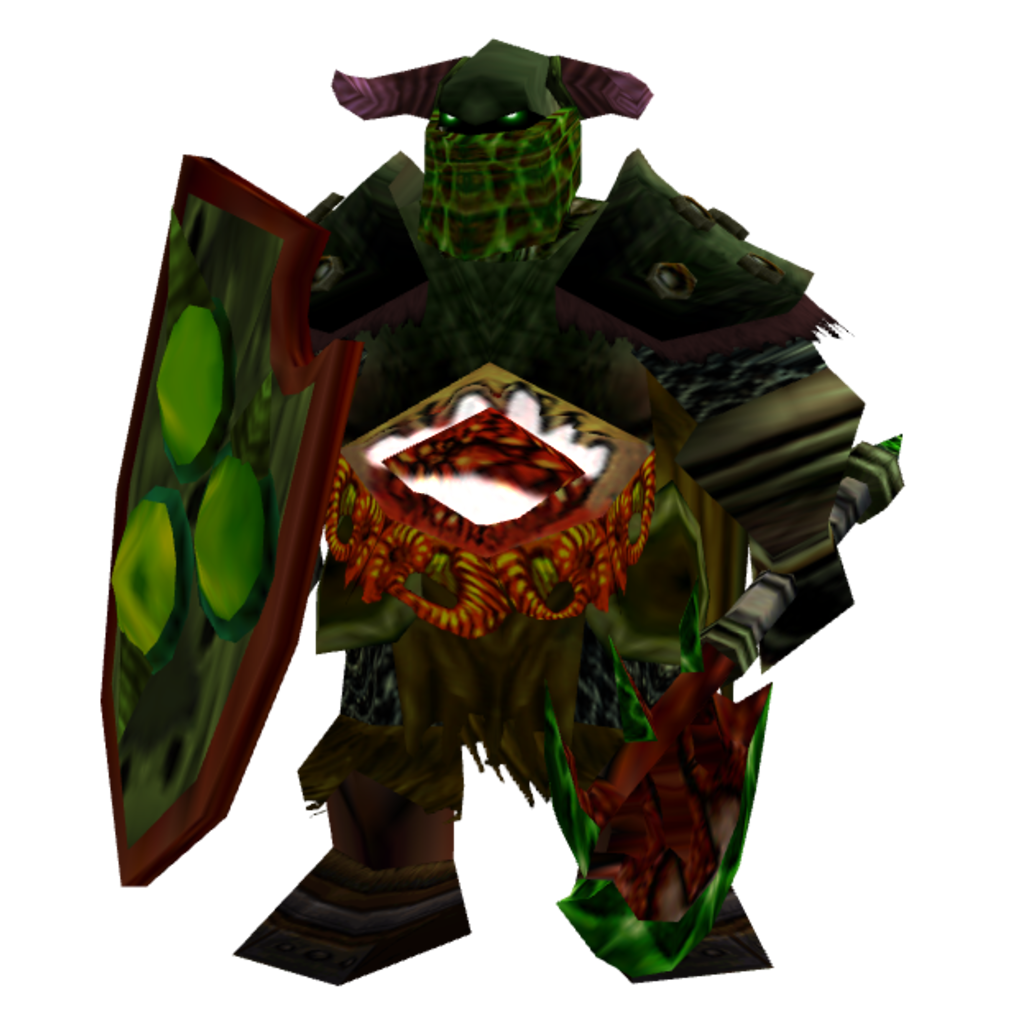
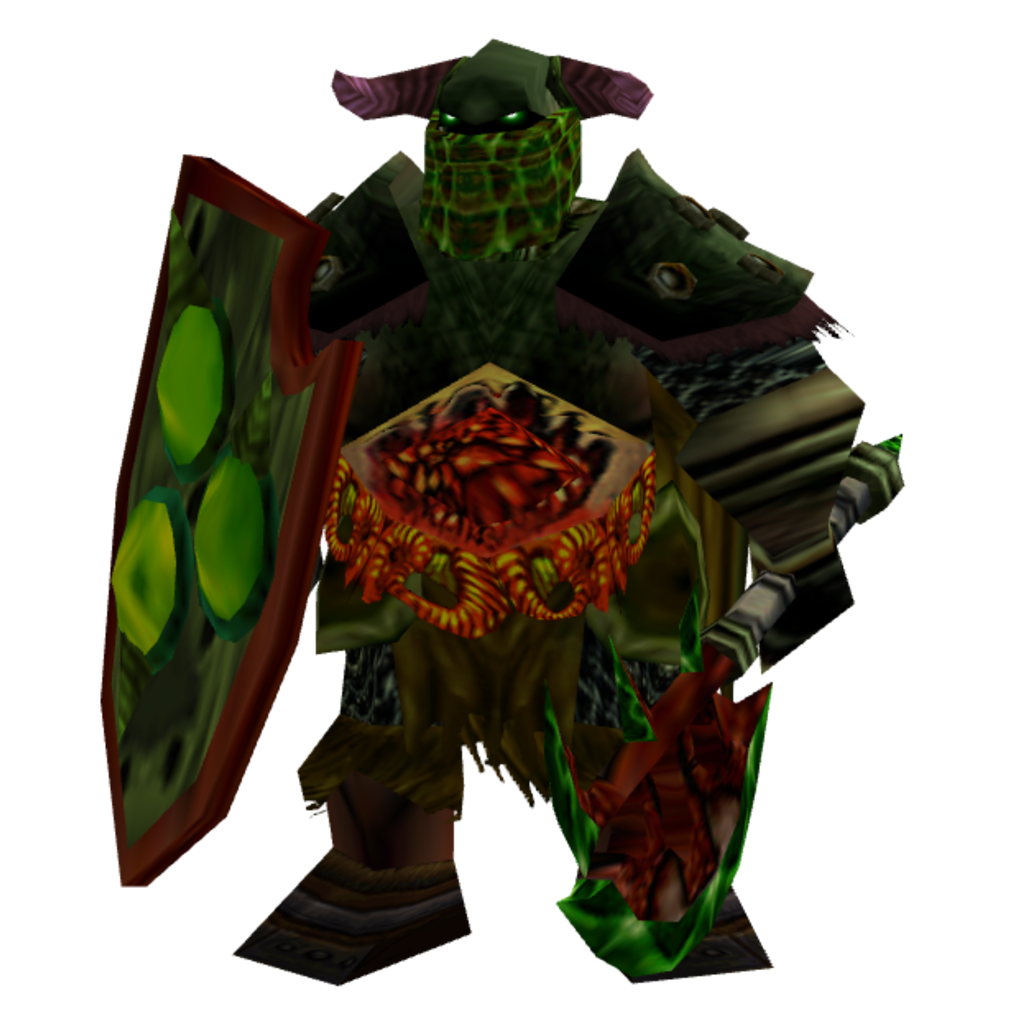
Publish corrected Nurgle belly capture and share image

Changed region(s): [[0.3438, 0.375, 0.5938, 0.5312]]

diff --git a/app.js b/app.js
@@ -4,13 +4,13 @@ import {modelFollowMarkup,mountModelFollow} from './model-follows.js?v=20261012-
 import {uploadedModelCard,renderUnitCard} from './unit-card.js?v=20261018-uniform-budget';
 import {startMenuVisitor} from './menu-visitor.js?v=20261014-shredder-follow-walk';
 import {countShredder} from './shredder-stats.js?v=20261012-shredder-cloudflare';
-import {createViewer} from './viewer.js?v=20261018-uniform-budget';
+import {createViewer} from './viewer.js?v=20261020-belly-alpha';
 import {TEAM_COLORS} from './vendor/mdlxl/src/team-colors.js';
 import {recordUsage} from './usage.js?v=20261012-shredder-cloudflare';
 import {renderJournal} from './journal.js?v=20261012-cloudflare';
 import {renderMdlxl} from './mdlxl.js?v=20261017-merged-0.25';
 if (/^\/mdlxl\/?$/.test(location.pathname) && !location.hash) history.replaceState(null,'',location.pathname+location.search+'#project/mdlxl');
-const app=document.querySelector('#app'),baseCatalogue=await fetch('catalogue.json?v=20261020-nurgle-replacement-5f107e9c').then(r=>r.json());
+const app=document.querySelector('#app'),baseCatalogue=await fetch('catalogue.json?v=20261020-belly-alpha').then(r=>r.json());
 const armies=await fetch('armies.json?v=20261012-chaos-before-champion').then(r=>r.json());
 // Variant groups: near-identical models share one army card and switch through tabs on the model page.
 const variantGroups=await fetch('variants.json?v=20261018-khorne-berserker').then(r=>r.json()).catch(()=>[]);
@@ -28,7 +28,7 @@ const armyReleaseTime=(row,updates)=>Math.max(0,...(groupOf(row.id)?liveVariants
 function groupCard(group,lead){const variants=liveVariants(group),army=armies.find(a=>a.id===lead.army),href=v=>`/model/${v.row.slug||v.id}/`;const data=escape(JSON.stringify(variants.map(v=>({href:href(v),src:thumbnail(v.id),label:v.label,name:v.row.name}))));return `<article class="model-card slab has-variants" data-variants="${data}" data-index="0"><div class="variant-stage"><a class="model-open" href="${href(variants[0])}" aria-label="Open ${escape(variants[0].row.name)}"><div class="card-portrait" style="--aura:${army.colour}"><img class="variant-shot" src="${thumbnail(variants[0].id)}" alt="${escape(variants[0].row.name)}">${modelUpdateTagMarkup(lead.id)}</div></a><button type="button" class="variant-arrow prev" data-step="-1" aria-label="Previous variant">‹</button><button type="button" class="variant-arrow next" data-step="1" aria-label="Next variant">›</button><div class="variant-dots">${variants.map((v,i)=>`<button type="button" data-pick="${i}" aria-label="${escape(v.label)}" title="${escape(v.label)}" aria-pressed="${i===0}"></button>`).join('')}</div></div><div class="card-text"><a class="card-name" href="${href(variants[0])}">${escape(group.name)}</a><small class="card-author">By: ${authorLinks(lead)}</small></div></article>`;}
 function mountVariantCards(root){root.onclick=event=>{const button=event.target.closest('[data-step],[data-pick]'),card=button?.closest('[data-variants]');if(!card)return;event.preventDefault();const variants=JSON.parse(card.dataset.variants),index=button.dataset.pick!==undefined?+button.dataset.pick:(+card.dataset.index+ +button.dataset.step+variants.length)%variants.length,v=variants[index];card.dataset.index=index;const shot=card.querySelector('.variant-shot');shot.src=v.src;shot.alt=v.name;for(const link of card.querySelectorAll('.model-open,.card-name'))link.href=v.href;card.querySelector('.model-open').setAttribute('aria-label','Open '+v.name);for(const pick of card.querySelectorAll('[data-pick]'))pick.setAttribute('aria-pressed',String(+pick.dataset.pick===index));};}
 function variantTabs(row){const group=groupOf(row.id),variants=group?liveVariants(group):[];if(variants.length<2)return '';return `<div class="variant-tabs" role="tablist" aria-label="${escape(group.name)} variants">${variants.map(v=>`<a role="tab" href="/model/${v.row.slug||v.id}/" data-variant="${escape(v.row.slug||v.id)}" aria-selected="${v.id===row.id}"${v.id===row.id?' tabindex="0"':' tabindex="-1"'}><img src="${thumbnail(v.id)}" alt="" aria-hidden="true">${escape(v.label)}</a>`).join('')}</div>`;}
-const thumbnail=id=>`thumbs/unit-${id}.png?v=${id==='warrior-of-nurgle'?'20261020-nurgle-replacement-5f107e9c':['nurgle-heavy','nurgle-standard'].includes(id)?'20261018-nurgle-original-helm-jaw-bounds':id==='warrior-of-khorne-berserker'?'20261018-berserker02':id==='warrior-of-khorne'?'20261018-warrior03':['tzeentch-sword','tzeentch-lance'].includes(id)?'20261018-tzeentch07':['undivided-sword','undivided-lance','tzeentch-sword','tzeentch-lance'].includes(id)?'20261018-knights-star-horns':['slaanesh-axe','slaanesh-lance'].includes(id)?'20261017-main-author-credits-2':id==='nurgle-champion'?'20261018-nurgle-elbow':['undivided-sword','undivided-lance'].includes(id)?'20261017-unshaded':['khorne-axe','khorne-flail'].includes(id)?'20261017-khorne-unshaded':['nurgle-heavy','nurgle-standard'].includes(id)?'20261018-nurgle-elbow':'20261013-warboss-hero-framing'}`;
+const thumbnail=id=>`thumbs/unit-${id}.png?v=${id==='warrior-of-nurgle'?'20261020-belly-alpha':['nurgle-heavy','nurgle-standard'].includes(id)?'20261018-nurgle-original-helm-jaw-bounds':id==='warrior-of-khorne-berserker'?'20261018-berserker02':id==='warrior-of-khorne'?'20261018-warrior03':['tzeentch-sword','tzeentch-lance'].includes(id)?'20261018-tzeentch07':['undivided-sword','undivided-lance','tzeentch-sword','tzeentch-lance'].includes(id)?'20261018-knights-star-horns':['slaanesh-axe','slaanesh-lance'].includes(id)?'20261017-main-author-credits-2':id==='nurgle-champion'?'20261018-nurgle-elbow':['undivided-sword','undivided-lance'].includes(id)?'20261017-unshaded':['khorne-axe','khorne-flail'].includes(id)?'20261017-khorne-unshaded':['nurgle-heavy','nurgle-standard'].includes(id)?'20261018-nurgle-elbow':'20261013-warboss-hero-framing'}`;
 const authorLinks=row=>row.authors.map(author=>`<a href="${escape(author.url)}" target="_blank" rel="noopener noreferrer">${escape(author.name)}</a>`).join(', ');
 function creditText(row,text){
  const links=(row.creditLinks||[]).filter(link=>/^https?:\/\//.test(link.url)).sort((a,b)=>b.text.length-a.text.length);

diff --git a/model/warrior-of-nurgle/index.html b/model/warrior-of-nurgle/index.html
@@ -5,7 +5,7 @@
 <meta property="og:title" content="Warrior of Nurgle">
 <meta property="og:description" content="An unbearable stench always heralds the approach of the Plague Lord’s warriors. Their helmets often bear great, withered horns and they are clad in rust-tarnished armour which conceal vile conditions or mutations – perhaps a slimy tentacle, or translucent, jelly-like flesh that reveals their decaying inner organs, or simply a body riddled with leprosy. Sometimes the corpulent meat of their bodies spills from the cracks of their armour. Whatever the case, they are deadly fighters who are near-impervious to pain and fight on despite receiving the most horrendous wounds imaginable.">
 <meta property="og:url" content="https://www.lowpolyworks.com/model/warrior-of-nurgle/">
-<meta property="og:image" content="https://www.lowpolyworks.com/thumbs/unit-warrior-of-nurgle.png">
+<meta property="og:image" content="https://www.lowpolyworks.com/thumbs/unit-warrior-of-nurgle.png?v=20261020-belly-alpha">
 <meta property="og:image:type" content="image/png">
 <meta property="og:image:width" content="1024">
 <meta property="og:image:height" content="1024">
@@ -13,7 +13,7 @@
 <meta name="twitter:card" content="summary_large_image">
 <meta name="twitter:title" content="Warrior of Nurgle">
 <meta name="twitter:description" content="An unbearable stench always heralds the approach of the Plague Lord’s warriors. Their helmets often bear great, withered horns and they are clad in rust-tarnished armour which conceal vile conditions or mutations – perhaps a slimy tentacle, or translucent, jelly-like flesh that reveals their decaying inner organs, or simply a body riddled with leprosy. Sometimes the corpulent meat of their bodies spills from the cracks of their armour. Whatever the case, they are deadly fighters who are near-impervious to pain and fight on despite receiving the most horrendous wounds imaginable.">
-<meta name="twitter:image" content="https://www.lowpolyworks.com/thumbs/unit-warrior-of-nurgle.png">
+<meta name="twitter:image" content="https://www.lowpolyworks.com/thumbs/unit-warrior-of-nurgle.png?v=20261020-belly-alpha">
 </head>
 <body class="journal"><header class="masthead"><a class="brand lowpolyworks-brand" href="#feed" aria-label="LowPolyWorks"><svg class="lowpolyworks-art" viewBox="0 0 1695 951" width="1695" height="951" aria-hidden="true" style="overflow:visible" xmlns="http://www.w3.org/2000/svg">
   <defs>
@@ -34,4 +34,4 @@
     <image href="ui/lowpolyworks-cleaned-source.png" width="1695" height="951" mask="url(#lowpolyworks-character-mask)"/>
   </g>
   <image class="lowpolyworks-lettering" href="ui/lowpolyworks-header-source.png" width="1695" height="951" mask="url(#lowpolyworks-type-mask)"/>
-</svg></a><details class="project-menu mobile-disclosure" open><summary>Menu</summary><nav aria-label="Main menu"><a class="project-brand mdlxl-brand" href="/mdlxl/" aria-label="MDLxL"><img class="mdlxl-brand-icon" src="ui/mdlxl-icon.png" alt="" width="48" height="48"><span class="mdlxl-wordmark" aria-hidden="true">MDL<span>x</span>L</span></a><a class="project-brand warhammercraft-brand" href="#project/warhammercraft" aria-label="WarhammerCraft"><span class="warhammercraft-wordmark" aria-hidden="true"><img src="ui/warhammercraft-header-source.png" alt="" width="1400" height="300"></span></a></nav></details></header><div class="site-shell"><aside class="side-menu side-left"><details class="army-menu mobile-disclosure" open><summary id="army-menu-title">Browse armies</summary><nav id="army-navigation" aria-label="Army navigation"></nav></details></aside><main id="app" aria-live="polite"><p class="loading">Loading…</p></main><aside class="side-menu side-right" id="catalogue-summary" aria-label="Catalogue information"></aside></div><footer><span>LOWPOLYWORKS</span><div><a href="#subscribe">Model notifications</a><a href="#acknowledgements">Acknowledgements</a></div></footer><script type="module" src="app.js?v=20261020-nurgle-replacement-5f107e9c"></script></body></html>
+</svg></a><details class="project-menu mobile-disclosure" open><summary>Menu</summary><nav aria-label="Main menu"><a class="project-brand mdlxl-brand" href="/mdlxl/" aria-label="MDLxL"><img class="mdlxl-brand-icon" src="ui/mdlxl-icon.png" alt="" width="48" height="48"><span class="mdlxl-wordmark" aria-hidden="true">MDL<span>x</span>L</span></a><a class="project-brand warhammercraft-brand" href="#project/warhammercraft" aria-label="WarhammerCraft"><span class="warhammercraft-wordmark" aria-hidden="true"><img src="ui/warhammercraft-header-source.png" alt="" width="1400" height="300"></span></a></nav></details></header><div class="site-shell"><aside class="side-menu side-left"><details class="army-menu mobile-disclosure" open><summary id="army-menu-title">Browse armies</summary><nav id="army-navigation" aria-label="Army navigation"></nav></details></aside><main id="app" aria-live="polite"><p class="loading">Loading…</p></main><aside class="side-menu side-right" id="catalogue-summary" aria-label="Catalogue information"></aside></div><footer><span>LOWPOLYWORKS</span><div><a href="#subscribe">Model notifications</a><a href="#acknowledgements">Acknowledgements</a></div></footer><script type="module" src="app.js?v=20261020-belly-alpha"></script></body></html>

diff --git a/index.html b/index.html
@@ -19,4 +19,4 @@
     <image href="ui/lowpolyworks-cleaned-source.png" width="1695" height="951" mask="url(#lowpolyworks-character-mask)"/>
   </g>
   <image class="lowpolyworks-lettering" href="ui/lowpolyworks-header-source.png" width="1695" height="951" mask="url(#lowpolyworks-type-mask)"/>
-</svg></a><details class="project-menu mobile-disclosure" open><summary>Menu</summary><nav aria-label="Main menu"><a class="project-brand mdlxl-brand" href="/mdlxl/" aria-label="MDLxL"><img class="mdlxl-brand-icon" src="ui/mdlxl-icon.png" alt="" width="48" height="48"><span class="mdlxl-wordmark" aria-hidden="true">MDL<span>x</span>L</span></a><a class="project-brand warhammercraft-brand" href="#project/warhammercraft" aria-label="WarhammerCraft"><span class="warhammercraft-wordmark" aria-hidden="true"><img src="ui/warhammercraft-header-source.png" alt="" width="1400" height="300"></span></a></nav></details></header><div class="site-shell"><aside class="side-menu side-left"><details class="army-menu mobile-disclosure" open><summary id="army-menu-title">Browse armies</summary><nav id="army-navigation" aria-label="Army navigation"></nav></details></aside><main id="app" aria-live="polite"><p class="loading">Loading…</p></main><aside class="side-menu side-right" id="catalogue-summary" aria-label="Catalogue information"></aside></div><footer><span>LOWPOLYWORKS</span><div><a href="#subscribe">Model notifications</a><a href="#acknowledgements">Acknowledgements</a></div></footer><script type="module" src="app.js?v=20261020-nurgle-replacement-5f107e9c"></script></body></html>
+</svg></a><details class="project-menu mobile-disclosure" open><summary>Menu</summary><nav aria-label="Main menu"><a class="project-brand mdlxl-brand" href="/mdlxl/" aria-label="MDLxL"><img class="mdlxl-brand-icon" src="ui/mdlxl-icon.png" alt="" width="48" height="48"><span class="mdlxl-wordmark" aria-hidden="true">MDL<span>x</span>L</span></a><a class="project-brand warhammercraft-brand" href="#project/warhammercraft" aria-label="WarhammerCraft"><span class="warhammercraft-wordmark" aria-hidden="true"><img src="ui/warhammercraft-header-source.png" alt="" width="1400" height="300"></span></a></nav></details></header><div class="site-shell"><aside class="side-menu side-left"><details class="army-menu mobile-disclosure" open><summary id="army-menu-title">Browse armies</summary><nav id="army-navigation" aria-label="Army navigation"></nav></details></aside><main id="app" aria-live="polite"><p class="loading">Loading…</p></main><aside class="side-menu side-right" id="catalogue-summary" aria-label="Catalogue information"></aside></div><footer><span>LOWPOLYWORKS</span><div><a href="#subscribe">Model notifications</a><a href="#acknowledgements">Acknowledgements</a></div></footer><script type="module" src="app.js?v=20261020-belly-alpha"></script></body></html>

diff --git a/mdlxl/index.html b/mdlxl/index.html
@@ -27,4 +27,4 @@
     <image href="ui/lowpolyworks-cleaned-source.png" width="1695" height="951" mask="url(#lowpolyworks-character-mask)"/>
   </g>
   <image class="lowpolyworks-lettering" href="ui/lowpolyworks-header-source.png" width="1695" height="951" mask="url(#lowpolyworks-type-mask)"/>
-</svg></a><details class="project-menu mobile-disclosure" open><summary>Menu</summary><nav aria-label="Main menu"><a class="project-brand mdlxl-brand" href="/mdlxl/" aria-label="MDLxL"><img class="mdlxl-brand-icon" src="ui/mdlxl-icon.png" alt="" width="48" height="48"><span class="mdlxl-wordmark" aria-hidden="true">MDL<span>x</span>L</span></a><a class="project-brand warhammercraft-brand" href="#project/warhammercraft" aria-label="WarhammerCraft"><span class="warhammercraft-wordmark" aria-hidden="true"><img src="ui/warhammercraft-header-source.png" alt="" width="1400" height="300"></span></a></nav></details></header><div class="site-shell"><aside class="side-menu side-left"><details class="army-menu mobile-disclosure" open><summary id="army-menu-title">Browse armies</summary><nav id="army-navigation" aria-label="Army navigation"></nav></details></aside><main id="app" aria-live="polite"><p class="loading">Loading…</p></main><aside class="side-menu side-right" id="catalogue-summary" aria-label="Catalogue information"></aside></div><footer><span>LOWPOLYWORKS</span><div><a href="#subscribe">Model notifications</a><a href="#acknowledgements">Acknowledgements</a></div></footer><script type="module" src="app.js?v=20261020-nurgle-replacement-5f107e9c"></script></body></html>
+</svg></a><details class="project-menu mobile-disclosure" open><summary>Menu</summary><nav aria-label="Main menu"><a class="project-brand mdlxl-brand" href="/mdlxl/" aria-label="MDLxL"><img class="mdlxl-brand-icon" src="ui/mdlxl-icon.png" alt="" width="48" height="48"><span class="mdlxl-wordmark" aria-hidden="true">MDL<span>x</span>L</span></a><a class="project-brand warhammercraft-brand" href="#project/warhammercraft" aria-label="WarhammerCraft"><span class="warhammercraft-wordmark" aria-hidden="true"><img src="ui/warhammercraft-header-source.png" alt="" width="1400" height="300"></span></a></nav></details></header><div class="site-shell"><aside class="side-menu side-left"><details class="army-menu mobile-disclosure" open><summary id="army-menu-title">Browse armies</summary><nav id="army-navigation" aria-label="Army navigation"></nav></details></aside><main id="app" aria-live="polite"><p class="loading">Loading…</p></main><aside class="side-menu side-right" id="catalogue-summary" aria-label="Catalogue information"></aside></div><footer><span>LOWPOLYWORKS</span><div><a href="#subscribe">Model notifications</a><a href="#acknowledgements">Acknowledgements</a></div></footer><script type="module" src="app.js?v=20261020-belly-alpha"></script></body></html>

diff --git a/model/aspiring/index.html b/model/aspiring/index.html
@@ -34,4 +34,4 @@
     <image href="ui/lowpolyworks-cleaned-source.png" width="1695" height="951" mask="url(#lowpolyworks-character-mask)"/>
   </g>
   <image class="lowpolyworks-lettering" href="ui/lowpolyworks-header-source.png" width="1695" height="951" mask="url(#lowpolyworks-type-mask)"/>
-</svg></a><details class="project-menu mobile-disclosure" open><summary>Menu</summary><nav aria-label="Main menu"><a class="project-brand mdlxl-brand" href="/mdlxl/" aria-label="MDLxL"><img class="mdlxl-brand-icon" src="ui/mdlxl-icon.png" alt="" width="48" height="48"><span class="mdlxl-wordmark" aria-hidden="true">MDL<span>x</span>L</span></a><a class="project-brand warhammercraft-brand" href="#project/warhammercraft" aria-label="WarhammerCraft"><span class="warhammercraft-wordmark" aria-hidden="true"><img src="ui/warhammercraft-header-source.png" alt="" width="1400" height="300"></span></a></nav></details></header><div class="site-shell"><aside class="side-menu side-left"><details class="army-menu mobile-disclosure" open><summary id="army-menu-title">Browse armies</summary><nav id="army-navigation" aria-label="Army navigation"></nav></details></aside><main id="app" aria-live="polite"><p class="loading">Loading…</p></main><aside class="side-menu side-right" id="catalogue-summary" aria-label="Catalogue information"></aside></div><footer><span>LOWPOLYWORKS</span><div><a href="#subscribe">Model notifications</a><a href="#acknowledgements">Acknowledgements</a></div></footer><script type="module" src="app.js?v=20261020-nurgle-replacement-5f107e9c"></script></body></html>
+</svg></a><details class="project-menu mobile-disclosure" open><summary>Menu</summary><nav aria-label="Main menu"><a class="project-brand mdlxl-brand" href="/mdlxl/" aria-label="MDLxL"><img class="mdlxl-brand-icon" src="ui/mdlxl-icon.png" alt="" width="48" height="48"><span class="mdlxl-wordmark" aria-hidden="true">MDL<span>x</span>L</span></a><a class="project-brand warhammercraft-brand" href="#project/warhammercraft" aria-label="WarhammerCraft"><span class="warhammercraft-wordmark" aria-hidden="true"><img src="ui/warhammercraft-header-source.png" alt="" width="1400" height="300"></span></a></nav></details></header><div class="site-shell"><aside class="side-menu side-left"><details class="army-menu mobile-disclosure" open><summary id="army-menu-title">Browse armies</summary><nav id="army-navigation" aria-label="Army navigation"></nav></details></aside><main id="app" aria-live="polite"><p class="loading">Loading…</p></main><aside class="side-menu side-right" id="catalogue-summary" aria-label="Catalogue information"></aside></div><footer><span>LOWPOLYWORKS</span><div><a href="#subscribe">Model notifications</a><a href="#acknowledgements">Acknowledgements</a></div></footer><script type="module" src="app.js?v=20261020-belly-alpha"></script></body></html>

diff --git a/model/blood-dragon/index.html b/model/blood-dragon/index.html
@@ -34,4 +34,4 @@
     <image href="ui/lowpolyworks-cleaned-source.png" width="1695" height="951" mask="url(#lowpolyworks-character-mask)"/>
   </g>
   <image class="lowpolyworks-lettering" href="ui/lowpolyworks-header-source.png" width="1695" height="951" mask="url(#lowpolyworks-type-mask)"/>
-</svg></a><details class="project-menu mobile-disclosure" open><summary>Menu</summary><nav aria-label="Main menu"><a class="project-brand mdlxl-brand" href="/mdlxl/" aria-label="MDLxL"><img class="mdlxl-brand-icon" src="ui/mdlxl-icon.png" alt="" width="48" height="48"><span class="mdlxl-wordmark" aria-hidden="true">MDL<span>x</span>L</span></a><a class="project-brand warhammercraft-brand" href="#project/warhammercraft" aria-label="WarhammerCraft"><span class="warhammercraft-wordmark" aria-hidden="true"><img src="ui/warhammercraft-header-source.png" alt="" width="1400" height="300"></span></a></nav></details></header><div class="site-shell"><aside class="side-menu side-left"><details class="army-menu mobile-disclosure" open><summary id="army-menu-title">Browse armies</summary><nav id="army-navigation" aria-label="Army navigation"></nav></details></aside><main id="app" aria-live="polite"><p class="loading">Loading…</p></main><aside class="side-menu side-right" id="catalogue-summary" aria-label="Catalogue information"></aside></div><footer><span>LOWPOLYWORKS</span><div><a href="#subscribe">Model notifications</a><a href="#acknowledgements">Acknowledgements</a></div></footer><script type="module" src="app.js?v=20261020-nurgle-replacement-5f107e9c"></script></body></html>
+</svg></a><details class="project-menu mobile-disclosure" open><summary>Menu</summary><nav aria-label="Main menu"><a class="project-brand mdlxl-brand" href="/mdlxl/" aria-label="MDLxL"><img class="mdlxl-brand-icon" src="ui/mdlxl-icon.png" alt="" width="48" height="48"><span class="mdlxl-wordmark" aria-hidden="true">MDL<span>x</span>L</span></a><a class="project-brand warhammercraft-brand" href="#project/warhammercraft" aria-label="WarhammerCraft"><span class="warhammercraft-wordmark" aria-hidden="true"><img src="ui/warhammercraft-header-source.png" alt="" width="1400" height="300"></span></a></nav></details></header><div class="site-shell"><aside class="side-menu side-left"><details class="army-menu mobile-disclosure" open><summary id="army-menu-title">Browse armies</summary><nav id="army-navigation" aria-label="Army navigation"></nav></details></aside><main id="app" aria-live="polite"><p class="loading">Loading…</p></main><aside class="side-menu side-right" id="catalogue-summary" aria-label="Catalogue information"></aside></div><footer><span>LOWPOLYWORKS</span><div><a href="#subscribe">Model notifications</a><a href="#acknowledgements">Acknowledgements</a></div></footer><script type="module" src="app.js?v=20261020-belly-alpha"></script></body></html>

diff --git a/model/bretonnian-archer/index.html b/model/bretonnian-archer/index.html
@@ -34,4 +34,4 @@
     <image href="ui/lowpolyworks-cleaned-source.png" width="1695" height="951" mask="url(#lowpolyworks-character-mask)"/>
   </g>
   <image class="lowpolyworks-lettering" href="ui/lowpolyworks-header-source.png" width="1695" height="951" mask="url(#lowpolyworks-type-mask)"/>
-</svg></a><details class="project-menu mobile-disclosure" open><summary>Menu</summary><nav aria-label="Main menu"><a class="project-brand mdlxl-brand" href="/mdlxl/" aria-label="MDLxL"><img class="mdlxl-brand-icon" src="ui/mdlxl-icon.png" alt="" width="48" height="48"><span class="mdlxl-wordmark" aria-hidden="true">MDL<span>x</span>L</span></a><a class="project-brand warhammercraft-brand" href="#project/warhammercraft" aria-label="WarhammerCraft"><span class="warhammercraft-wordmark" aria-hidden="true"><img src="ui/warhammercraft-header-source.png" alt="" width="1400" height="300"></span></a></nav></details></header><div class="site-shell"><aside class="side-menu side-left"><details class="army-menu mobile-disclosure" open><summary id="army-menu-title">Browse armies</summary><nav id="army-navigation" aria-label="Army navigation"></nav></details></aside><main id="app" aria-live="polite"><p class="loading">Loading…</p></main><aside class="side-menu side-right" id="catalogue-summary" aria-label="Catalogue information"></aside></div><footer><span>LOWPOLYWORKS</span><div><a href="#subscribe">Model notifications</a><a href="#acknowledgements">Acknowledgements</a></div></footer><script type="module" src="app.js?v=20261020-nurgle-replacement-5f107e9c"></script></body></html>
+</svg></a><details class="project-menu mobile-disclosure" open><summary>Menu</summary><nav aria-label="Main menu"><a class="project-brand mdlxl-brand" href="/mdlxl/" aria-label="MDLxL"><img class="mdlxl-brand-icon" src="ui/mdlxl-icon.png" alt="" width="48" height="48"><span class="mdlxl-wordmark" aria-hidden="true">MDL<span>x</span>L</span></a><a class="project-brand warhammercraft-brand" href="#project/warhammercraft" aria-label="WarhammerCraft"><span class="warhammercraft-wordmark" aria-hidden="true"><img src="ui/warhammercraft-header-source.png" alt="" width="1400" height="300"></span></a></nav></details></header><div class="site-shell"><aside class="side-menu side-left"><details class="army-menu mobile-disclosure" open><summary id="army-menu-title">Browse armies</summary><nav id="army-navigation" aria-label="Army navigation"></nav></details></aside><main id="app" aria-live="polite"><p class="loading">Loading…</p></main><aside class="side-menu side-right" id="catalogue-summary" aria-label="Catalogue information"></aside></div><footer><span>LOWPOLYWORKS</span><div><a href="#subscribe">Model notifications</a><a href="#acknowledgements">Acknowledgements</a></div></footer><script type="module" src="app.js?v=20261020-belly-alpha"></script></body></html>

diff --git a/model/bretonnian-pikeman/index.html b/model/bretonnian-pikeman/index.html
@@ -34,4 +34,4 @@
     <image href="ui/lowpolyworks-cleaned-source.png" width="1695" height="951" mask="url(#lowpolyworks-character-mask)"/>
   </g>
   <image class="lowpolyworks-lettering" href="ui/lowpolyworks-header-source.png" width="1695" height="951" mask="url(#lowpolyworks-type-mask)"/>
-</svg></a><details class="project-menu mobile-disclosure" open><summary>Menu</summary><nav aria-label="Main menu"><a class="project-brand mdlxl-brand" href="/mdlxl/" aria-label="MDLxL"><img class="mdlxl-brand-icon" src="ui/mdlxl-icon.png" alt="" width="48" height="48"><span class="mdlxl-wordmark" aria-hidden="true">MDL<span>x</span>L</span></a><a class="project-brand warhammercraft-brand" href="#project/warhammercraft" aria-label="WarhammerCraft"><span class="warhammercraft-wordmark" aria-hidden="true"><img src="ui/warhammercraft-header-source.png" alt="" width="1400" height="300"></span></a></nav></details></header><div class="site-shell"><aside class="side-menu side-left"><details class="army-menu mobile-disclosure" open><summary id="army-menu-title">Browse armies</summary><nav id="army-navigation" aria-label="Army navigation"></nav></details></aside><main id="app" aria-live="polite"><p class="loading">Loading…</p></main><aside class="side-menu side-right" id="catalogue-summary" aria-label="Catalogue information"></aside></div><footer><span>LOWPOLYWORKS</span><div><a href="#subscribe">Model notifications</a><a href="#acknowledgements">Acknowledgements</a></div></footer><script type="module" src="app.js?v=20261020-nurgle-replacement-5f107e9c"></script></body></html>
+</svg></a><details class="project-menu mobile-disclosure" open><summary>Menu</summary><nav aria-label="Main menu"><a class="project-brand mdlxl-brand" href="/mdlxl/" aria-label="MDLxL"><img class="mdlxl-brand-icon" src="ui/mdlxl-icon.png" alt="" width="48" height="48"><span class="mdlxl-wordmark" aria-hidden="true">MDL<span>x</span>L</span></a><a class="project-brand warhammercraft-brand" href="#project/warhammercraft" aria-label="WarhammerCraft"><span class="warhammercraft-wordmark" aria-hidden="true"><img src="ui/warhammercraft-header-source.png" alt="" width="1400" height="300"></span></a></nav></details></header><div class="site-shell"><aside class="side-menu side-left"><details class="army-menu mobile-disclosure" open><summary id="army-menu-title">Browse armies</summary><nav id="army-navigation" aria-label="Army navigation"></nav></details></aside><main id="app" aria-live="polite"><p class="loading">Loading…</p></main><aside class="side-menu side-right" id="catalogue-summary" aria-label="Catalogue information"></aside></div><footer><span>LOWPOLYWORKS</span><div><a href="#subscribe">Model notifications</a><a href="#acknowledgements">Acknowledgements</a></div></footer><script type="module" src="app.js?v=20261020-belly-alpha"></script></body></html>

diff --git a/model/bretonnian-swordsman/index.html b/model/bretonnian-swordsman/index.html
@@ -34,4 +34,4 @@
     <image href="ui/lowpolyworks-cleaned-source.png" width="1695" height="951" mask="url(#lowpolyworks-character-mask)"/>
   </g>
   <image class="lowpolyworks-lettering" href="ui/lowpolyworks-header-source.png" width="1695" height="951" mask="url(#lowpolyworks-type-mask)"/>
-</svg></a><details class="project-menu mobile-disclosure" open><summary>Menu</summary><nav aria-label="Main menu"><a class="project-brand mdlxl-brand" href="/mdlxl/" aria-label="MDLxL"><img class="mdlxl-brand-icon" src="ui/mdlxl-icon.png" alt="" width="48" height="48"><span class="mdlxl-wordmark" aria-hidden="true">MDL<span>x</span>L</span></a><a class="project-brand warhammercraft-brand" href="#project/warhammercraft" aria-label="WarhammerCraft"><span class="warhammercraft-wordmark" aria-hidden="true"><img src="ui/warhammercraft-header-source.png" alt="" width="1400" height="300"></span></a></nav></details></header><div class="site-shell"><aside class="side-menu side-left"><details class="army-menu mobile-disclosure" open><summary id="army-menu-title">Browse armies</summary><nav id="army-navigation" aria-label="Army navigation"></nav></details></aside><main id="app" aria-live="polite"><p class="loading">Loading…</p></main><aside class="side-menu side-right" id="catalogue-summary" aria-label="Catalogue information"></aside></div><footer><span>LOWPOLYWORKS</span><div><a href="#subscribe">Model notifications</a><a href="#acknowledgements">Acknowledgements</a></div></footer><script type="module" src="app.js?v=20261020-nurgle-replacement-5f107e9c"></script></body></html>
+</svg></a><details class="project-menu mobile-disclosure" open><summary>Menu</summary><nav aria-label="Main menu"><a class="project-brand mdlxl-brand" href="/mdlxl/" aria-label="MDLxL"><img class="mdlxl-brand-icon" src="ui/mdlxl-icon.png" alt="" width="48" height="48"><span class="mdlxl-wordmark" aria-hidden="true">MDL<span>x</span>L</span></a><a class="project-brand warhammercraft-brand" href="#project/warhammercraft" aria-label="WarhammerCraft"><span class="warhammercraft-wordmark" aria-hidden="true"><img src="ui/warhammercraft-header-source.png" alt="" width="1400" height="300"></span></a></nav></details></header><div class="site-shell"><aside class="side-menu side-left"><details class="army-menu mobile-disclosure" open><summary id="army-menu-title">Browse armies</summary><nav id="army-navigation" aria-label="Army navigation"></nav></details></aside><main id="app" aria-live="polite"><p class="loading">Loading…</p></main><aside class="side-menu side-right" id="catalogue-summary" aria-label="Catalogue information"></aside></div><footer><span>LOWPOLYWORKS</span><div><a href="#subscribe">Model notifications</a><a href="#acknowledgements">Acknowledgements</a></div></footer><script type="module" src="app.js?v=20261020-belly-alpha"></script></body></html>

diff --git a/model/chaos-ogre/index.html b/model/chaos-ogre/index.html
@@ -34,4 +34,4 @@
     <image href="ui/lowpolyworks-cleaned-source.png" width="1695" height="951" mask="url(#lowpolyworks-character-mask)"/>
   </g>
   <image class="lowpolyworks-lettering" href="ui/lowpolyworks-header-source.png" width="1695" height="951" mask="url(#lowpolyworks-type-mask)"/>
-</svg></a><details class="project-menu mobile-disclosure" open><summary>Menu</summary><nav aria-label="Main menu"><a class="project-brand mdlxl-brand" href="/mdlxl/" aria-label="MDLxL"><img class="mdlxl-brand-icon" src="ui/mdlxl-icon.png" alt="" width="48" height="48"><span class="mdlxl-wordmark" aria-hidden="true">MDL<span>x</span>L</span></a><a class="project-brand warhammercraft-brand" href="#project/warhammercraft" aria-label="WarhammerCraft"><span class="warhammercraft-wordmark" aria-hidden="true"><img src="ui/warhammercraft-header-source.png" alt="" width="1400" height="300"></span></a></nav></details></header><div class="site-shell"><aside class="side-menu side-left"><details class="army-menu mobile-disclosure" open><summary id="army-menu-title">Browse armies</summary><nav id="army-navigation" aria-label="Army navigation"></nav></details></aside><main id="app" aria-live="polite"><p class="loading">Loading…</p></main><aside class="side-menu side-right" id="catalogue-summary" aria-label="Catalogue information"></aside></div><footer><span>LOWPOLYWORKS</span><div><a href="#subscribe">Model notifications</a><a href="#acknowledgements">Acknowledgements</a></div></footer><script type="module" src="app.js?v=20261020-nurgle-replacement-5f107e9c"></script></body></html>
+</svg></a><details class="project-menu mobile-disclosure" open><summary>Menu</summary><nav aria-label="Main menu"><a class="project-brand mdlxl-brand" href="/mdlxl/" aria-label="MDLxL"><img class="mdlxl-brand-icon" src="ui/mdlxl-icon.png" alt="" width="48" height="48"><span class="mdlxl-wordmark" aria-hidden="true">MDL<span>x</span>L</span></a><a class="project-brand warhammercraft-brand" href="#project/warhammercraft" aria-label="WarhammerCraft"><span class="warhammercraft-wordmark" aria-hidden="true"><img src="ui/warhammercraft-header-source.png" alt="" width="1400" height="300"></span></a></nav></details></header><div class="site-shell"><aside class="side-menu side-left"><details class="army-menu mobile-disclosure" open><summary id="army-menu-title">Browse armies</summary><nav id="army-navigation" aria-label="Army navigation"></nav></details></aside><main id="app" aria-live="polite"><p class="loading">Loading…</p></main><aside class="side-menu side-right" id="catalogue-summary" aria-label="Catalogue information"></aside></div><footer><span>LOWPOLYWORKS</span><div><a href="#subscribe">Model notifications</a><a href="#acknowledgements">Acknowledgements</a></div></footer><script type="module" src="app.js?v=20261020-belly-alpha"></script></body></html>

diff --git a/model/elector-count/index.html b/model/elector-count/index.html
@@ -34,4 +34,4 @@
     <image href="ui/lowpolyworks-cleaned-source.png" width="1695" height="951" mask="url(#lowpolyworks-character-mask)"/>
   </g>
   <image class="lowpolyworks-lettering" href="ui/lowpolyworks-header-source.png" width="1695" height="951" mask="url(#lowpolyworks-type-mask)"/>
-</svg></a><details class="project-menu mobile-disclosure" open><summary>Menu</summary><nav aria-label="Main menu"><a class="project-brand mdlxl-brand" href="/mdlxl/" aria-label="MDLxL"><img class="mdlxl-brand-icon" src="ui/mdlxl-icon.png" alt="" width="48" height="48"><span class="mdlxl-wordmark" aria-hidden="true">MDL<span>x</span>L</span></a><a class="project-brand warhammercraft-brand" href="#project/warhammercraft" aria-label="WarhammerCraft"><span class="warhammercraft-wordmark" aria-hidden="true"><img src="ui/warhammercraft-header-source.png" alt="" width="1400" height="300"></span></a></nav></details></header><div class="site-shell"><aside class="side-menu side-left"><details class="army-menu mobile-disclosure" open><summary id="army-menu-title">Browse armies</summary><nav id="army-navigation" aria-label="Army navigation"></nav></details></aside><main id="app" aria-live="polite"><p class="loading">Loading…</p></main><aside class="side-menu side-right" id="catalogue-summary" aria-label="Catalogue information"></aside></div><footer><span>LOWPOLYWORKS</span><div><a href="#subscribe">Model notifications</a><a href="#acknowledgements">Acknowledgements</a></div></footer><script type="module" src="app.js?v=20261020-nurgle-replacement-5f107e9c"></script></body></html>
+</svg></a><details class="project-menu mobile-disclosure" open><summary>Menu</summary><nav aria-label="Main menu"><a class="project-brand mdlxl-brand" href="/mdlxl/" aria-label="MDLxL"><img class="mdlxl-brand-icon" src="ui/mdlxl-icon.png" alt="" width="48" height="48"><span class="mdlxl-wordmark" aria-hidden="true">MDL<span>x</span>L</span></a><a class="project-brand warhammercraft-brand" href="#project/warhammercraft" aria-label="WarhammerCraft"><span class="warhammercraft-wordmark" aria-hidden="true"><img src="ui/warhammercraft-header-source.png" alt="" width="1400" height="300"></span></a></nav></details></header><div class="site-shell"><aside class="side-menu side-left"><details class="army-menu mobile-disclosure" open><summary id="army-menu-title">Browse armies</summary><nav id="army-navigation" aria-label="Army navigation"></nav></details></aside><main id="app" aria-live="polite"><p class="loading">Loading…</p></main><aside class="side-menu side-right" id="catalogue-summary" aria-label="Catalogue information"></aside></div><footer><span>LOWPOLYWORKS</span><div><a href="#subscribe">Model notifications</a><a href="#acknowledgements">Acknowledgements</a></div></footer><script type="module" src="app.js?v=20261020-belly-alpha"></script></body></html>

diff --git a/model/elite-steam-tank/index.html b/model/elite-steam-tank/index.html
@@ -34,4 +34,4 @@
     <image href="ui/lowpolyworks-cleaned-source.png" width="1695" height="951" mask="url(#lowpolyworks-character-mask)"/>
   </g>
   <image class="lowpolyworks-lettering" href="ui/lowpolyworks-header-source.png" width="1695" height="951" mask="url(#lowpolyworks-type-mask)"/>
-</svg></a><details class="project-menu mobile-disclosure" open><summary>Menu</summary><nav aria-label="Main menu"><a class="project-brand mdlxl-brand" href="/mdlxl/" aria-label="MDLxL"><img class="mdlxl-brand-icon" src="ui/mdlxl-icon.png" alt="" width="48" height="48"><span class="mdlxl-wordmark" aria-hidden="true">MDL<span>x</span>L</span></a><a class="project-brand warhammercraft-brand" href="#project/warhammercraft" aria-label="WarhammerCraft"><span class="warhammercraft-wordmark" aria-hidden="true"><img src="ui/warhammercraft-header-source.png" alt="" width="1400" height="300"></span></a></nav></details></header><div class="site-shell"><aside class="side-menu side-left"><details class="army-menu mobile-disclosure" open><summary id="army-menu-title">Browse armies</summary><nav id="army-navigation" aria-label="Army navigation"></nav></details></aside><main id="app" aria-live="polite"><p class="loading">Loading…</p></main><aside class="side-menu side-right" id="catalogue-summary" aria-label="Catalogue information"></aside></div><footer><span>LOWPOLYWORKS</span><div><a href="#subscribe">Model notifications</a><a href="#acknowledgements">Acknowledgements</a></div></footer><script type="module" src="app.js?v=20261020-nurgle-replacement-5f107e9c"></script></body></html>
+</svg></a><details class="project-menu mobile-disclosure" open><summary>Menu</summary><nav aria-label="Main menu"><a class="project-brand mdlxl-brand" href="/mdlxl/" aria-label="MDLxL"><img class="mdlxl-brand-icon" src="ui/mdlxl-icon.png" alt="" width="48" height="48"><span class="mdlxl-wordmark" aria-hidden="true">MDL<span>x</span>L</span></a><a class="project-brand warhammercraft-brand" href="#project/warhammercraft" aria-label="WarhammerCraft"><span class="warhammercraft-wordmark" aria-hidden="true"><img src="ui/warhammercraft-header-source.png" alt="" width="1400" height="300"></span></a></nav></details></header><div class="site-shell"><aside class="side-menu side-left"><details class="army-menu mobile-disclosure" open><summary id="army-menu-title">Browse armies</summary><nav id="army-navigation" aria-label="Army navigation"></nav></details></aside><main id="app" aria-live="polite"><p class="loading">Loading…</p></main><aside class="side-menu side-right" id="catalogue-summary" aria-label="Catalogue information"></aside></div><footer><span>LOWPOLYWORKS</span><div><a href="#subscribe">Model notifications</a><a href="#acknowledgements">Acknowledgements</a></div></footer><script type="module" src="app.js?v=20261020-belly-alpha"></script></body></html>
